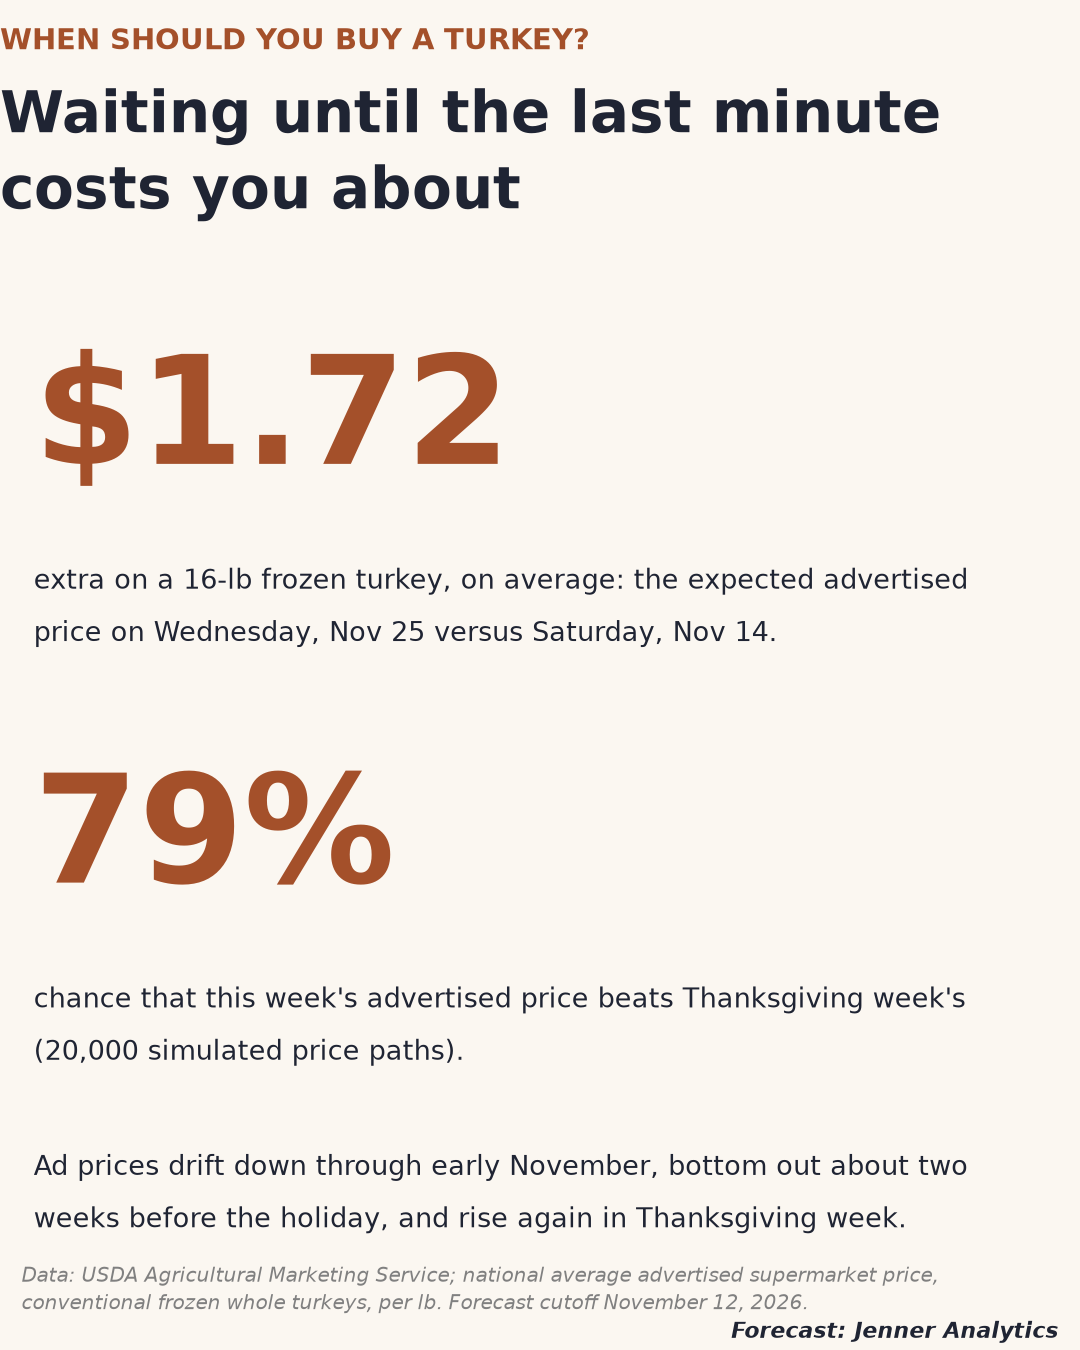
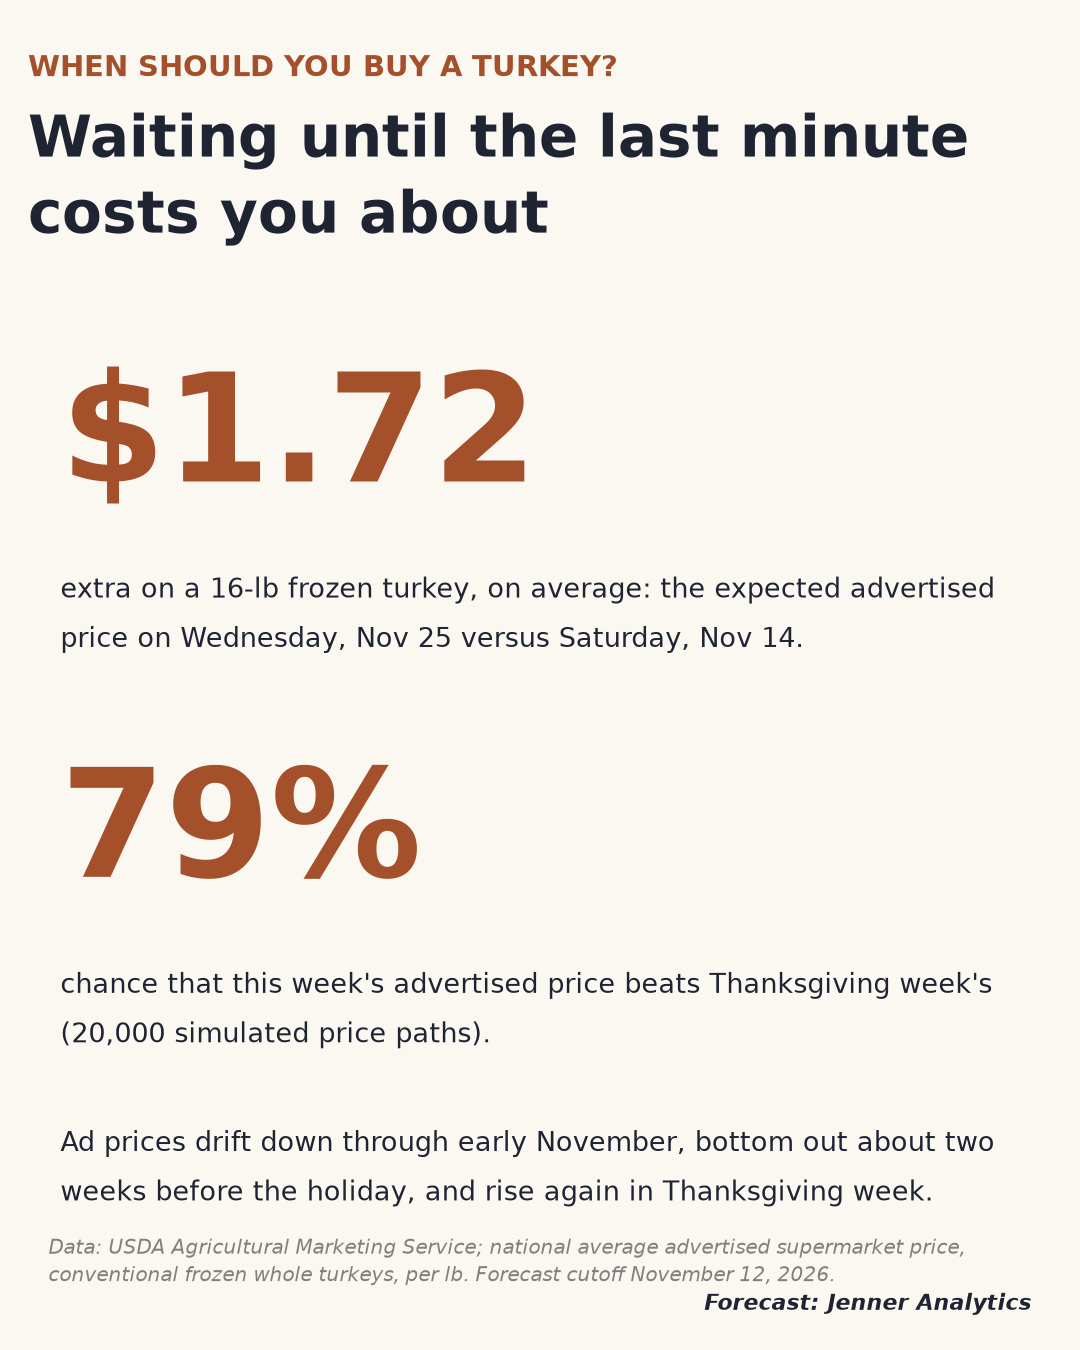
thanksgiving: deal cards, card margins, and a clean-clone fix
Add sas/13_deal_cards.sas: three cards on when the cheapest turkey ads
appear (best-deal curve, share of regions with a 50-cent ad, regional map),
with LinkedIn post copy.

Pad the four existing cards so no text touches the image edge, and add
VALUESHINT where an axis sets VALUES= with MIN=/MAX=, so the range is kept.

Move the tk library out of data/processed. In a fresh clone the tracked
model_weekly.csv sat in the library folder, so tk.model_weekly read the CSV
with dates as text and steps 03 and 08 failed.

diff --git a/thanksgiving/output/social/post_copy.md b/thanksgiving/output/social/post_copy.md
@@ -23,6 +23,27 @@ Caveats: these are national average advertised supermarket prices for convention
 
 #Thanksgiving #DataScience #Econometrics #Forecasting #SAS #Analytics
 
+## LinkedIn, the deals post (use with turkey_deals_linkedin_1200x627.png, or as a carousel with turkey_deals_by_week_1080x1080.png and turkey_deals_map_1200x627.png)
+
+Numbers are from the price-spread run on USDA data through the ad week of 7-13 November 2026. Rerun `run_spread.sas` after each Friday USDA release and update the figures below.
+
+🦃 I found one turkey for $88 and another for $11. So we stopped asking what the average turkey costs and asked when the best deals show up.
+
+The average advertised price of a frozen whole turkey hardly moves before Thanksgiving: about $1.16/lb in mid-October, about $1.00 by the holiday. The cheapest ads tell a different story.
+
+📉 The typical cheapest ad in a US region falls from $1.02/lb in mid-October to about $0.35 by November 10.
+🎯 The best deals (the 10th percentile of those cheapest ads) fall from $0.68 to $0.24/lb, and stay there through Thanksgiving week.
+📅 Five weeks before Thanksgiving week, 5% of regions have a turkey advertised at 50 cents a pound or less. Three weeks before: 48%. The week before: 91%.
+🗺 In the ad week of 7-13 November the cheapest ad was $0.24/lb in the Southeast and $0.29 in the Northeast, against $0.58 in the Northwest.
+
+So the deals are not better at the last minute. They arrive about 16 days out, and they hold.
+
+For the statisticians: PROC QUANTREG for the 10th, 50th and 90th percentiles, PROC AUTOREG with a HETERO statement for how the variance changes over the season, and PROC SGMAP for the map. All SAS-compatible code running on Jenner Analytics, open source (MIT): https://github.com/JennerAnalytics/sas-compatible-examples/tree/main/thanksgiving
+
+Caveats: these are advertised prices from USDA, not checkout receipts. USDA publishes a low, an average and a high for each region, not store-level prices, so the percentiles are across regions and seasons. Some of the lowest prices require an additional purchase. In a backtest the low end was harder to predict than the average.
+
+#Thanksgiving #DataScience #Statistics #QuantileRegression #SAS #Analytics
+
 ## Short version (X / Bluesky / Threads)
 
 🦃 Don't wait for Thanksgiving week to buy your turkey. 22 years of USDA supermarket ad data: frozen-turkey prices bottom out in mid-November and rise ~11% by the holiday. Forecast $1.16/lb around Nov 14 vs $1.27 on Nov 25. Open SAS-compatible code on Jenner Analytics: https://github.com/JennerAnalytics/sas-compatible-examples/tree/main/thanksgiving
@@ -43,3 +64,6 @@ Data: USDA Agricultural Marketing Service. Analysis in SAS-compatible code on Je
 - turkey_season_curve_1080x1080.png: Curve of the typical frozen-turkey price season relative to its low: about 11% above the low in late October, lowest in mid-November, rising to about 11% above the low on Thanksgiving.
 - turkey_cost_of_waiting_1080x1350.png: Waiting until the last minute costs about $1.72 on a 16-lb frozen turkey; 79% chance that this week's advertised price beats Thanksgiving week's.
 - turkey_loss_leader_1080x1080.png: Paired bars for 2022 to 2025 comparing wholesale and supermarket advertised prices per lb: $1.75 vs $0.98, $1.02 vs $1.11, $0.96 vs $0.95, $1.72 vs $0.97.
+- turkey_deals_linkedin_1200x627.png: Line chart of frozen turkey ad prices from mid-October to Thanksgiving 2026. The best deals fall from $0.68 to $0.24 per lb by November 10 and stay flat; the typical cheapest ad falls from $1.02 to $0.35; the regional average stays near $1.00 to $1.16.
+- turkey_deals_by_week_1080x1080.png: Bar chart of the share of US regions with a turkey advertised at $0.50 per lb or less, by ad week: 0%, 5%, 16%, 48%, 86%, 91%, and 81% in Thanksgiving week.
+- turkey_deals_map_1200x627.png: US map coloured by region showing the lowest advertised frozen turkey price in the ad week of 7-13 November 2026: Southeast $0.24, Northeast $0.29, Midwest $0.35, South Central $0.48, Southwest $0.49, Northwest $0.58, Alaska $0.58, Hawaii $0.99.

diff --git a/thanksgiving/README.md b/thanksgiving/README.md
@@ -93,8 +93,10 @@ Full details are in [docs/methodology.md](docs/methodology.md).
 | | |
 |---|---|
 | ![LinkedIn card](output/social/turkey_linkedin_1200x627.png) | ![Cost of waiting](output/social/turkey_cost_of_waiting_1080x1350.png) |
+| ![Best deals over the season](output/social/turkey_deals_linkedin_1200x627.png) | ![Share of regions with a 50-cent ad](output/social/turkey_deals_by_week_1080x1080.png) |
+| ![Cheapest ad by region](output/social/turkey_deals_map_1200x627.png) | |
 
-`sas/10_social_cards.sas` draws all four cards with PROC SGPLOT from the forecast tables. The chart at the top is drawn by `sas/09_visualization.sas` (SVG, PNG, PDF in `output/figures/`). Suggested post text is in [output/social/post_copy.md](output/social/post_copy.md).
+`sas/10_social_cards.sas` draws the four forecast cards with PROC SGPLOT from the forecast tables, and `sas/13_deal_cards.sas` draws the three deal cards from the price-spread tables. The chart at the top is drawn by `sas/09_visualization.sas` (SVG, PNG, PDF in `output/figures/`). Suggested post text is in [output/social/post_copy.md](output/social/post_copy.md).
 
 ## Reproduce
 
@@ -113,7 +115,7 @@ The backtest (`sas/07_validation.sas`) fits 28 state-space models and takes most
 
 | Path | Contents |
 |---|---|
-| `sas/01_import.sas` ... `sas/12_spread_charts.sas` | the pipeline, in order |
+| `sas/01_import.sas` ... `sas/13_deal_cards.sas` | the pipeline, in order |
 | `data/raw/` | source data (USDA AMS retail feature activity, national and regional; USDA AMS wholesale) |
 | `data/processed/model_weekly.csv` | the modeling dataset |
 | `output/forecasts/turkey_price_forecast_thanksgiving2026.csv` | the daily forecast with 95% intervals and observed/inferred/forecast status |
